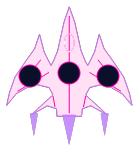
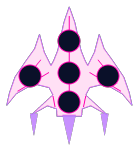
feat(hud): start runs with 5 lives and add top and bottom heart sockets
LIVES_START 3 to 5. The hull wireframe gets a socket on the nose and one above the
main exhaust; hearts fill center, right, left, top, bottom.

Changed region(s): [[0.4029, 0.1842, 0.6043, 0.3684], [0.4029, 0.5789, 0.6043, 0.7632]]

diff --git a/game/tests/ui/test_hud.py b/game/tests/ui/test_hud.py
@@ -27,13 +27,16 @@ from ui.hud_rules import RGB, HudRules
 SENTINEL: RGB = (255, 0, 255)
 """Fills the window before a draw, so any pixel the HUD didn't write shows."""
 
+LIVES_START: int = 5
+"""One heart per life. Source: 05-lives-and-damage.md, Values, lives_start (locked)."""
+
 
 @dataclasses.dataclass(frozen=True)
 class FakeRun:
     """The four numbers the HUD reads."""
 
     score: int = 0
-    lives: int = 3
+    lives: int = LIVES_START
     grazes: int = 0
     level: int = 1
 
@@ -256,12 +259,12 @@ def test_best_shows_with_commas_and_is_hidden_without_a_best_score(
 # ----- hearts -----
 
 
-@pytest.mark.parametrize("lives", [3, 2])
+@pytest.mark.parametrize("lives", [5, 4, 3, 2])
 def test_hearts_are_lit_for_each_life_left_and_dim_for_each_lost(
     view: HudView, window: pygame.Surface, rules: HudRules, lives: int
 ) -> None:
     _draw(view, window, FakeRun(lives=lives))
-    for slot in range(3):
+    for slot in range(LIVES_START):
         pixel = _heart_pixel(window, rules, slot)
         if slot < lives:
             assert _near(pixel, rules.palette["hearts"]), (slot, pixel)
@@ -269,21 +272,21 @@ def test_hearts_are_lit_for_each_life_left_and_dim_for_each_lost(
             assert not _near(pixel, rules.palette["hearts"], 60), (slot, pixel)
 
 
-def test_the_last_life_is_one_orange_heart_and_two_dim_ones(
+def test_the_last_life_is_one_orange_heart_and_the_rest_dim(
     view: HudView, window: pygame.Surface, rules: HudRules
 ) -> None:
     _draw(view, window, FakeRun(lives=1))
     assert _near(_heart_pixel(window, rules, 0), rules.palette["last_life"])
-    for slot in (1, 2):
+    for slot in range(1, LIVES_START):
         assert not _near(_heart_pixel(window, rules, slot), rules.palette["hearts"], 60)
         assert not _near(_heart_pixel(window, rules, slot), rules.palette["last_life"], 60)
 
 
-def test_no_life_left_shows_three_dim_hearts(
+def test_no_life_left_shows_every_heart_dim(
     view: HudView, window: pygame.Surface, rules: HudRules
 ) -> None:
     _draw(view, window, FakeRun(lives=0))
-    for slot in range(3):
+    for slot in range(LIVES_START):
         pixel = _heart_pixel(window, rules, slot)
         assert not _near(pixel, rules.palette["hearts"], 60)
         assert not _near(pixel, rules.palette["last_life"], 60)

diff --git a/game/tests/core/test_run_graze.py b/game/tests/core/test_run_graze.py
@@ -80,7 +80,7 @@ GRAZE_RING_WIDTH: int = 1
 GRAZE_MARGIN: float = 14.0
 """px. Source: 06-scoring.md, graze_margin (locked)."""
 
-LIVES_START: int = 3
+LIVES_START: int = 5
 INVULN_TICKS: int = 60
 """Source: 05-lives-and-damage.md, Values, lives_start, invuln_ticks (locked)."""
 
@@ -851,7 +851,7 @@ def test_a_graze_and_a_hit_by_another_hazard_on_one_tick_the_graze_pays_then_the
     messages = [r.getMessage() for r in caplog.records]
     graze_at = messages.index("drifter graze id=1 type=meteorite")
     touch_at = messages.index("drifter touch id=2 type=meteorite effect=hit")
-    life_at = messages.index("life lost lives=2")
+    life_at = messages.index(f"life lost lives={LIVES_START - 1}")
     assert graze_at < touch_at < life_at
     # On the last life the hit starts the last life, and the final score has the graze in it.
     caplog.clear()
@@ -891,7 +891,9 @@ def test_a_graze_on_a_fall_tick_pays_then_the_fall_counts(caplog: pytest.LogCapt
     assert popup.x == HOME_X
     assert popup.start_y > SCREEN_H
     messages = [r.getMessage() for r in caplog.records]
-    assert messages.index("drifter graze id=1 type=meteorite") < messages.index("life lost lives=2")
+    assert messages.index("drifter graze id=1 type=meteorite") < messages.index(
+        f"life lost lives={LIVES_START - 1}"
+    )
 
 
 LONG_RULES: GrazeRules = replace(CUSTOM_RULES, popup_ticks=500, ring_ticks=500)
@@ -1080,7 +1082,7 @@ def test_a_paid_graze_logs_one_line_after_the_collect_lines_and_before_the_hit_l
         "drifter touch id=3 type=coin effect=collect",
         "drifter graze id=1 type=meteorite",
         "drifter touch id=2 type=meteorite effect=hit",
-        "life lost lives=2",
+        f"life lost lives={LIVES_START - 1}",
         run_lines[4],
     ]
     assert run_lines[4].startswith("drifter gone id=3 type=coin")

diff --git a/game/tests/core/test_floating_island.py b/game/tests/core/test_floating_island.py
@@ -75,7 +75,7 @@ GRAVITY: float = 0.16
 FALL_CAP: float = 5.5
 """px/tick², px/tick. Source: 04-ship.md, Values, gravity, fall_cap (guess)."""
 
-LIVES_START: int = 3
+LIVES_START: int = 5
 INVULN_TICKS: int = 60
 """Source: 05-lives-and-damage.md, Values, lives_start, invuln_ticks (locked)."""
 
@@ -563,7 +563,7 @@ def test_a_ship_falls_onto_an_island_stands_and_rides_down_and_falls_when_it_lea
     assert fell.waiting
     assert fell.invuln_ticks_left == INVULN_TICKS
     assert fell.ship == spawn()
-    assert "life lost lives=2" in run_lines(caplog)
+    assert f"life lost lives={LIVES_START - 1}" in run_lines(caplog)
     assert not any(line.startswith("respawn clear") for line in run_lines(caplog))
     assert not any(line.startswith("drifter touch") for line in run_lines(caplog))
 
@@ -658,7 +658,7 @@ def test_a_ship_in_the_respawn_wait_is_carried_down_by_an_island_and_falls_off_t
         assert fell.lives == LIVES_START - 1
         assert fell.waiting
         assert fell.invuln_ticks_left == INVULN_TICKS
-        assert "life lost lives=2" in lines
+        assert f"life lost lives={LIVES_START - 1}" in lines
 
 
 def test_a_ship_in_the_respawn_wait_with_no_island_on_it_stays_exactly_as_it_was() -> None:
@@ -733,7 +733,7 @@ def test_a_fall_respawns_the_ship_clear_of_an_island_over_the_respawn_point(
         assert fell.lives == LIVES_START - 1
         assert fell.waiting
         assert fell.invuln_ticks_left == INVULN_TICKS
-        assert lines.index("life lost lives=2") < from_index
+        assert lines.index(f"life lost lives={LIVES_START - 1}") < from_index
 
 
 def test_a_fall_respawns_clear_of_the_island_where_it_stands_after_the_scroll_moved_it() -> None:

diff --git a/game/tests/core/test_game_flow.py b/game/tests/core/test_game_flow.py
@@ -56,6 +56,9 @@ from core.waves import (
     start_waves,
 )
 
+LIVES_START: int = 5
+"""Source: 05-lives-and-damage.md, Values, lives_start (locked)."""
+
 SCREEN_H: int = 480
 """px. Source: 03-world-and-camera.md, Values, screen_h (guess)."""
 
@@ -470,7 +473,7 @@ def test_play_starts_the_apps_run_untouched_and_after_a_game_over_it_starts_next
     assert play.screen is Screen.PLAYING
     assert play.run == next_run(over.run)
     assert not play.run.game_over
-    assert play.run.lives == 3
+    assert play.run.lives == LIVES_START
     assert not play.run_stepped
     assert step_flow(play, IDLE).run == step_run(next_run(over.run), NO_KEY)
 
@@ -649,7 +652,7 @@ def test_retry_gives_next_run_and_playing_at_once_and_menu_gives_the_menu_with_p
     assert retry.screen is Screen.PLAYING
     assert retry.run == next_run(over.run)
     assert not retry.run_stepped
-    assert retry.run.lives == 3
+    assert retry.run.lives == LIVES_START
     assert not retry.run.game_over
     # The next tick is the run's first.
     assert step_flow(retry, TickInput(thrust=UP)).run == step_run(retry.run, UP)

diff --git a/game/tests/core/test_run.py b/game/tests/core/test_run.py
@@ -14,7 +14,7 @@ from core.run import Run, next_run, start_run, step_run
 from core.scroll import Scroll, start_scroll
 from core.ship import Ship, Thrust, spawn, step
 
-LIVES_START: int = 3
+LIVES_START: int = 5
 """Source: 05-lives-and-damage.md, Values, lives_start (locked)."""
 
 INVULN_TICKS: int = 60
@@ -344,8 +344,9 @@ def test_events_log_once_on_core_run(caplog: pytest.LogCaptureFixture) -> None:
     assert _count(_lines(caplog), "respawn wait end") == 0
     caplog.clear()
 
-    # First fall. Then 600 ticks of waiting log only the end of the invulnerability.
-    run = step_run(_falling_run(), NO_KEY)
+    # First of three falls from 3 lives left. Then 600 ticks of waiting log only the end of the
+    # invulnerability.
+    run = step_run(_falling_run(lives=3), NO_KEY)
     lines = _lines(caplog)
     assert _count(lines, "life lost") == 1
     assert _count(lines, "respawn from") == 1

diff --git a/game/tests/core/test_run_drifters.py b/game/tests/core/test_run_drifters.py
@@ -28,7 +28,7 @@ from core.run import Run, add_drifters, next_run, start_run, step_run
 from core.scroll import Scroll, start_scroll
 from core.ship import Ship, Thrust, ship_hitbox, spawn
 
-LIVES_START: int = 3
+LIVES_START: int = 5
 """Source: 05-lives-and-damage.md, Values, lives_start (locked)."""
 
 INVULN_TICKS: int = 60
@@ -854,7 +854,7 @@ def test_drifter_events_log_once_on_core_run(caplog: pytest.LogCaptureFixture) -
     ]
     assert hit_lines[2] == "drifter touch id=1 type=meteorite effect=hit"
     assert hit_lines[3] == "drifter touch id=2 type=meteorite effect=hit"
-    assert hit_lines[4] == "life lost lives=2"
+    assert hit_lines[4] == f"life lost lives={LIVES_START - 1}"
     caplog.clear()
     for _ in range(150):
         run = hold_ship(step_run(run, NO_KEY))

diff --git a/tools/art/hud_panel.py b/tools/art/hud_panel.py
@@ -338,11 +338,11 @@ class Baker:
         return (self.pillar + (x - self.pillar) * self.k, y * self.k)
 
     def socket_centers(self) -> list[Point]:
-        """Where the three heart sockets sit on the wireframe, panel space, from hud.json."""
+        """Where the heart sockets sit on the wireframe, one per life, panel space, from hud.json."""
         return [(float(x), float(y)) for x, y in self.r["hearts"]["slots"]]
 
     def ship_picture(self) -> pygame.Surface:
-        """The wireframe: a hull outline traced from the real ship, with three empty sockets."""
+        """The wireframe: a hull outline traced from the real ship, with one empty socket per life."""
         c, hr = self.c, self.r["hearts"]
         bx, by, bw, bh = hr["ship_box"]
         big = hires(bw, bh)

diff --git a/game/tests/core/test_ufo.py b/game/tests/core/test_ufo.py
@@ -111,7 +111,7 @@ REHIT_COOLDOWN: int = 180
 REHIT_DIM: float = 0.75
 """Source: 05-lives-and-damage.md, rehit_cooldown, rehit_dim (guess)."""
 
-LIVES_START: int = 3
+LIVES_START: int = 5
 INVULN_TICKS: int = 60
 """Source: 05-lives-and-damage.md, Values, lives_start, invuln_ticks (locked)."""
 
@@ -1370,7 +1370,7 @@ def test_a_ufo_logs_spawn_active_each_hit_and_gone_and_nothing_from_core_drifter
         "drifter spawn id=1 type=ufo variant=standard x=-20.00 y=300.00 speed=1.97 level=1",
         "drifter active id=1 type=ufo x=-20.00 y=300.00",
         "drifter touch id=1 type=ufo effect=hit",
-        "life lost lives=2",
+        f"life lost lives={LIVES_START - 1}",
         "invulnerable end",
         f"drifter gone id=1 type=ufo x={last.x:.2f} y={last.y:.2f}",
     ]

diff --git a/game/tests/core/test_electric_ball.py b/game/tests/core/test_electric_ball.py
@@ -104,7 +104,7 @@ REHIT_COOLDOWN: int = 180
 REHIT_DIM: float = 0.75
 """Source: 05-lives-and-damage.md, rehit_cooldown, rehit_dim (guess)."""
 
-LIVES_START: int = 3
+LIVES_START: int = 5
 INVULN_TICKS: int = 60
 """Source: 05-lives-and-damage.md, Values, lives_start, invuln_ticks (locked)."""
 
@@ -928,7 +928,7 @@ def test_the_run_logs_spawn_active_touch_and_gone_and_the_ball_logs_nothing(
         "drifter touch id=1 type=electric_ball effect=hit",
         "drifter gone id=1 type=electric_ball x=320.00 y=488.00",
     ]
-    assert "life lost lives=2" in run_lines
+    assert f"life lost lives={LIVES_START - 1}" in run_lines
     # The ball's own module and the base log nothing.
     assert [r.name for r in caplog.records if r.name.startswith("core.drifters")] == []
 

diff --git a/game/tests/core/test_planet.py b/game/tests/core/test_planet.py
@@ -85,7 +85,7 @@ SCREEN_H: float = 480.0
 REHIT_COOLDOWN: int = 180
 """Ticks. Source: 05-lives-and-damage.md, rehit_cooldown (guess)."""
 
-LIVES_START: int = 3
+LIVES_START: int = 5
 INVULN_TICKS: int = 60
 """Source: 05-lives-and-damage.md, Values, lives_start, invuln_ticks (locked)."""
 
@@ -749,7 +749,7 @@ def test_a_planet_logs_spawn_active_each_hit_and_gone_and_nothing_for_its_pull(
         "drifter spawn id=1 type=planet variant=standard x=320.00 y=-151.00 speed=0.00 level=1",
         "drifter active id=1 type=planet x=320.00 y=-151.00",
         "drifter touch id=1 type=planet effect=hit",
-        "life lost lives=2",
+        f"life lost lives={LIVES_START - 1}",
         "invulnerable end",
         "drifter gone id=1 type=planet x=320.00 y=631.10",
     ]

diff --git a/game/tests/core/test_run_waves.py b/game/tests/core/test_run_waves.py
@@ -43,7 +43,7 @@ from core.waves import (
     start_waves,
 )
 
-LIVES_START: int = 3
+LIVES_START: int = 5
 INVULN_TICKS: int = 60
 """Source: 05-lives-and-damage.md, Values, lives_start, invuln_ticks (locked)."""
 
@@ -746,7 +746,7 @@ def test_a_new_run_logs_new_run_then_the_waves_start_and_a_tick_logs_the_waves_l
     seen: list[tuple[str, str]] = messages(caplog, RUN_LOGGER, WAVES_LOGGER)
     assert [name for name, _ in seen] == [RUN_LOGGER] * 3 + [WAVES_LOGGER] * 3
     lines: list[str] = [line for _, line in seen]
-    assert lines[0] == "life lost lives=2"
+    assert lines[0] == f"life lost lives={LIVES_START - 1}"
     assert lines[1].startswith("respawn from ")
     assert lines[2].startswith("drifter gone id=1 type=meteorite")
     assert lines[3:] == [

diff --git a/game/tests/core/test_graze_feedback.py b/game/tests/core/test_graze_feedback.py
@@ -72,6 +72,9 @@ from core.scroll import Scroll
 from core.ship import Ship, Thrust
 from core.ship import step as ship_step
 
+LIVES_START: int = 5
+"""Source: 05-lives-and-damage.md, Values, lives_start (locked)."""
+
 GRAZE_MARGIN: float = 14.0
 """px. Source: 06-scoring.md, graze_margin (locked)."""
 
@@ -830,7 +833,7 @@ def test_rings_and_graze_popups_keep_aging_during_the_respawn_wait_and_on_protec
         popups.append(graze_popups(run))
         # Nothing here pays a second time and no life is lost.
         assert run.grazes == 1
-        assert run.lives == 3
+        assert run.lives == LIVES_START
     # The popup aged and left on the same ticks as with a free ship.
     check_popup_over_time(popups, rules, ship_after.x, ship_after.y)
 
